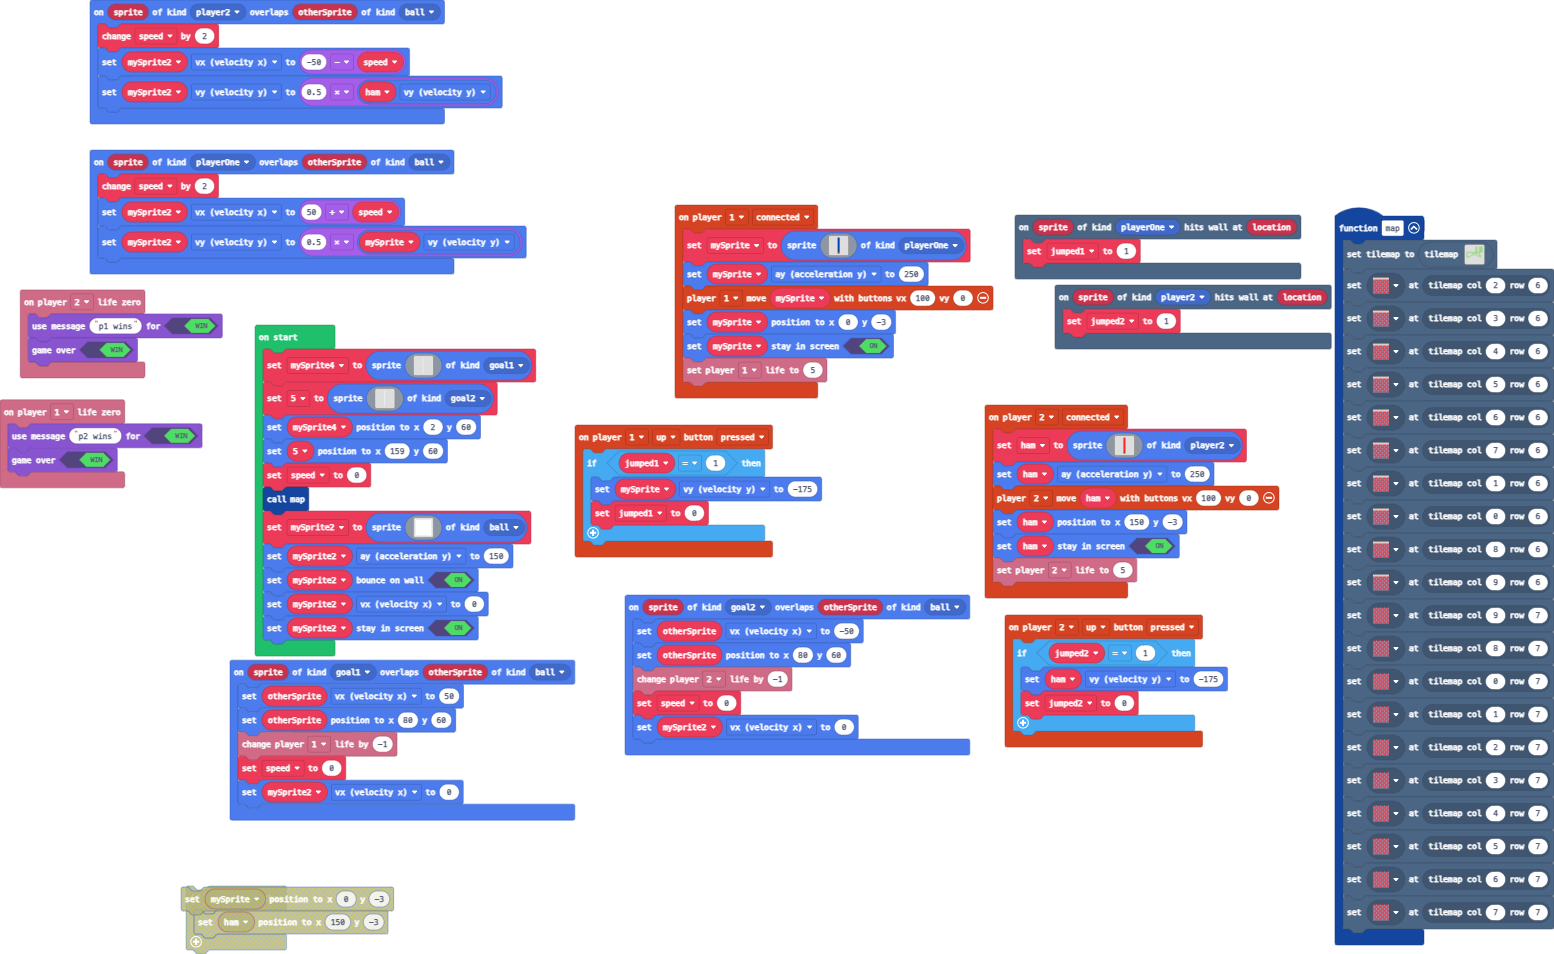
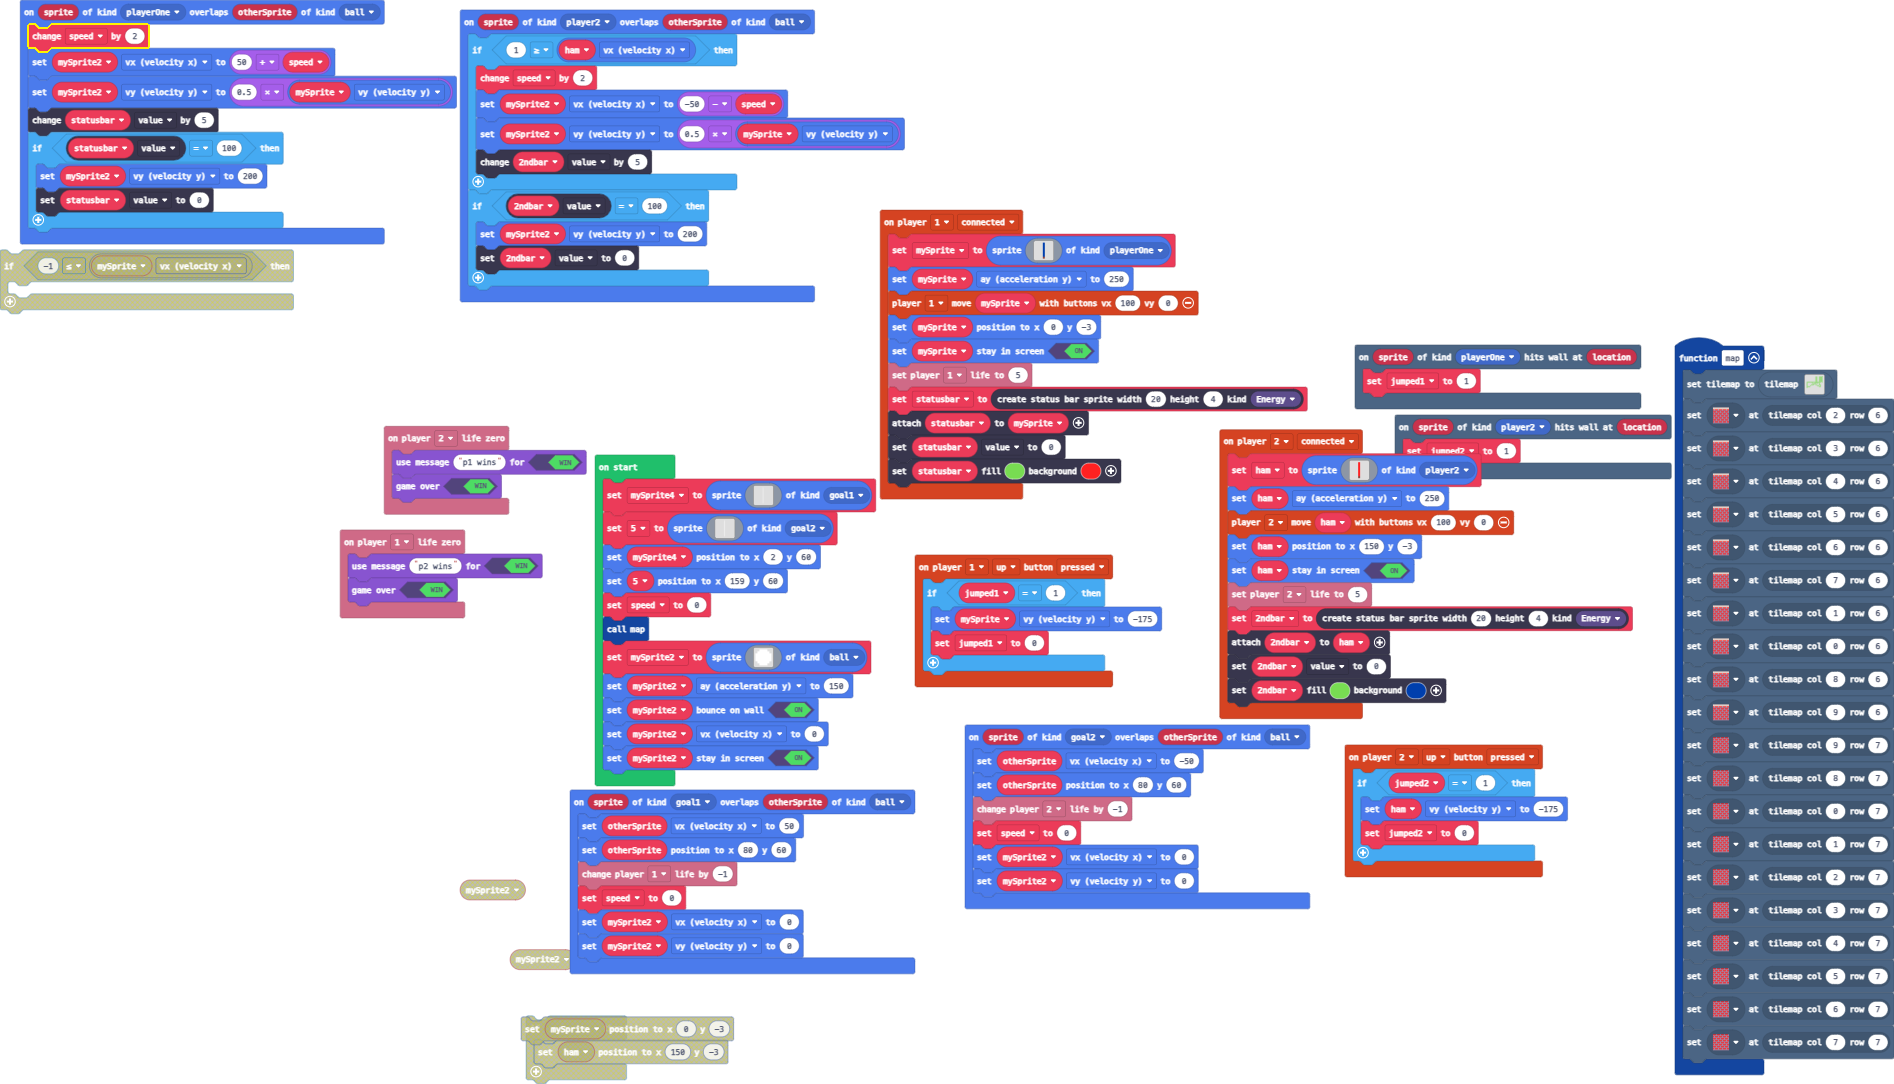
Update pxt.json, main.blocks, main.ts

diff --git a/main.ts b/main.ts
@@ -17,11 +17,17 @@ sprites.onOverlap(SpriteKind.goal2, SpriteKind.ball, function (sprite, otherSpri
     info.player2.changeLifeBy(-1)
     speed = 0
     mySprite2.vx = 0
+    mySprite2.vy = 0
 })
 sprites.onOverlap(SpriteKind.playerOne, SpriteKind.ball, function (sprite, otherSprite) {
     speed += 2
     mySprite2.vx = 50 + speed
     mySprite2.vy = 0.5 * mySprite.vy
+    statusbar.value += 5
+    if (statusbar.value == 100) {
+        mySprite2.vy = 200
+        statusbar.value = 0
+    }
 })
 scene.onHitWall(SpriteKind.playerOne, function (sprite, location) {
     jumped1 = 1
@@ -61,15 +67,23 @@ sprites.onOverlap(SpriteKind.goal1, SpriteKind.ball, function (sprite, otherSpri
     info.player1.changeLifeBy(-1)
     speed = 0
     mySprite2.vx = 0
+    mySprite2.vy = 0
 })
 info.player1.onLifeZero(function () {
     game.setGameOverMessage(true, "p2 wins")
     game.gameOver(true)
 })
 sprites.onOverlap(SpriteKind.player2, SpriteKind.ball, function (sprite, otherSprite) {
-    speed += 2
-    mySprite2.vx = -50 - speed
-    mySprite2.vy = 0.5 * ham.vy
+    if (1 >= ham.vx) {
+        speed += 2
+        mySprite2.vx = -50 - speed
+        mySprite2.vy = 0.5 * mySprite.vy
+        _2ndbar.value += 5
+    }
+    if (_2ndbar.value == 100) {
+        mySprite2.vy = 200
+        _2ndbar.value = 0
+    }
 })
 info.player2.onLifeZero(function () {
     game.setGameOverMessage(true, "p1 wins")
@@ -99,6 +113,10 @@ controller.player2.onEvent(ControllerEvent.Connected, function () {
     ham.setPosition(150, -3)
     ham.setStayInScreen(true)
     info.player2.setLife(5)
+    _2ndbar = statusbars.create(20, 4, StatusBarKind.Energy)
+    _2ndbar.attachToSprite(ham)
+    _2ndbar.value = 0
+    _2ndbar.setColor(7, 8)
 })
 scene.onHitWall(SpriteKind.player2, function (sprite, location) {
     jumped2 = 1
@@ -127,9 +145,15 @@ controller.player1.onEvent(ControllerEvent.Connected, function () {
     mySprite.setPosition(0, -3)
     mySprite.setStayInScreen(true)
     info.player1.setLife(5)
+    statusbar = statusbars.create(20, 4, StatusBarKind.Energy)
+    statusbar.attachToSprite(mySprite)
+    statusbar.value = 0
+    statusbar.setColor(7, 2)
 })
+let _2ndbar: StatusBarSprite = null
 let ham: Sprite = null
 let jumped2 = 0
+let statusbar: StatusBarSprite = null
 let mySprite: Sprite = null
 let jumped1 = 0
 let mySprite2: Sprite = null
@@ -383,10 +407,14 @@ _5.setPosition(159, 60)
 speed = 0
 map()
 mySprite2 = sprites.create(img`
-    1 1 1 1 
-    1 1 1 1 
-    1 1 1 1 
-    1 1 1 1 
+    . . 1 1 1 1 . . 
+    . 1 1 1 1 1 1 . 
+    1 1 1 1 1 1 1 1 
+    1 1 1 1 1 1 1 1 
+    1 1 1 1 1 1 1 1 
+    1 1 1 1 1 1 1 1 
+    . 1 1 1 1 1 1 . 
+    . . 1 1 1 1 . . 
     `, SpriteKind.ball)
 mySprite2.ay = 150
 mySprite2.setBounceOnWall(true)
